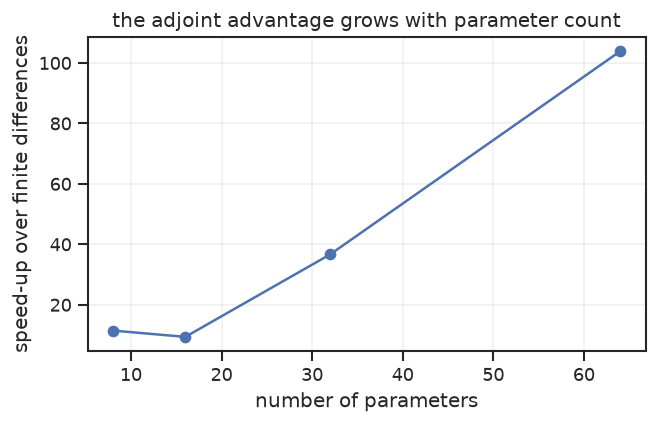
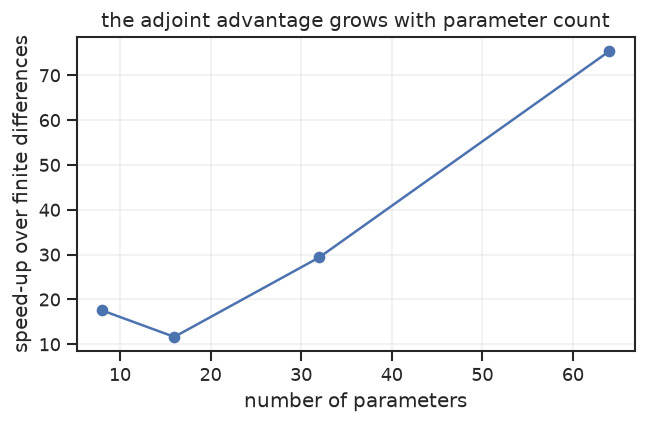
stieltjes past the support size returns noise, so refuse it
a measure on m points admits at most m orthonormal polynomials, since
the next one would have to vanish at every one of them. ask for more and
the recurrence does not fail loudly: the exhausted beta comes out at zero
and the ones after it come back NON zero, from round off, and the
quadrature rule built from them has positive weights summing correctly to
mu0. with 4 nodes and 8 terms the last three betas were 0.956, 0.195 and
0.341, all noise in a plausible costume.

that matters because stieltjes is the entry point for arbitrary
discretised measures, so somebody with 50 data points asking for order 60
walks straight into it. now a ValueError naming both numbers.

the honest limit counts distinct support points, so a measure with
repeated nodes or zero weights still supports fewer than it looks.
that case is documented rather than detected.

recovering legendre from a 40 point grid is unchanged at 6e-16, which is
the check that the guard did not cost anything real. 216 in the suite.

diff --git a/equadratures/jax/recurrence.py b/equadratures/jax/recurrence.py
@@ -81,14 +81,37 @@ def stieltjes_recurrence(nodes, weights, n):
     beta : jax.numpy.ndarray, shape (n-1,)
     mu0 : jax.numpy.ndarray, scalar
 
+    Raises
+    ------
+    ValueError
+        If ``n`` exceeds the number of support points. A measure supported on
+        ``m`` points admits at most ``m`` orthonormal polynomials -- the next one
+        would have to vanish at every one of them -- and past that the recurrence
+        breaks down. It does not break down *loudly*: the exhausted ``beta``
+        comes out at zero and the ones after it come back non-zero, from
+        round-off, and the resulting quadrature rule has positive weights summing
+        correctly to ``mu0``. Measured with 4 nodes and 8 requested terms:
+        ``beta = [0.745, 0.596, 0.447, 0.0, 0.956, 0.195, 0.341]``, of which the
+        last three are noise wearing a plausible costume. Hence the check.
+
     Notes
     -----
     Accurate to order ``n`` only if the discretisation integrates polynomials up
     to degree ``2n-1`` well enough (e.g. an ``M>=n`` point Gauss rule makes the
     first ``n`` coefficients exact).
+
+    The check above counts support *points*, not distinct ones. A measure with
+    repeated nodes, or with some weights at zero, supports fewer polynomials
+    than it has entries, and that case is not detected here.
     """
     x = jnp.asarray(nodes)
     w = jnp.asarray(weights)
+    if int(n) > x.shape[0]:
+        raise ValueError(
+            "cannot build %d recurrence coefficients from a measure supported "
+            "on %d points: at most %d orthonormal polynomials exist, and past "
+            "that the recurrence returns round-off that looks like data"
+            % (int(n), x.shape[0], x.shape[0]))
     mu0 = jnp.sum(w)
 
     alpha = [jnp.sum(w * x) / mu0]        # alpha_0 = weighted mean

diff --git a/tests/test_jax_quadrature.py b/tests/test_jax_quadrature.py
@@ -127,6 +127,28 @@ class TestJaxQuadrature(unittest.TestCase):
         np.testing.assert_allclose(np.array(beta), np.array(b_ref), atol=1e-10)
         self.assertAlmostEqual(float(mu0), float(mu0_ref), places=12)
 
+    def test_stieltjes_refuses_more_terms_than_the_measure_supports(self):
+        """Past the support size the recurrence returns noise, not an error.
+
+        A measure on m points admits at most m orthonormal polynomials. Ask for
+        more and the exhausted beta comes out at zero while the ones after it
+        come back non-zero from round-off -- and the quadrature rule built from
+        them has positive weights summing correctly, so nothing downstream
+        objects. Measured with 4 nodes and 8 terms, the last three betas were
+        0.956, 0.195 and 0.341, all noise. Hence the guard.
+        """
+        nodes = jnp.linspace(-1.0, 1.0, 4)
+        weights = jnp.full(4, 0.25)
+
+        # Up to the support size is fine.
+        for n in (2, 3, 4):
+            alpha, beta, mu0 = eqj.stieltjes_recurrence(nodes, weights, n)
+            self.assertEqual(alpha.shape[0], n)
+
+        for n in (5, 8):
+            with self.assertRaises(ValueError):
+                eqj.stieltjes_recurrence(nodes, weights, n)
+
     def test_stieltjes_differentiable(self):
         # Coefficients differentiable w.r.t. the measure weights (autodiff vs FD).
         n = 4
